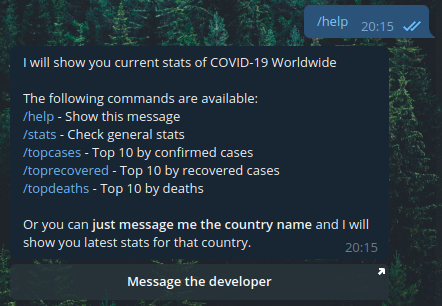
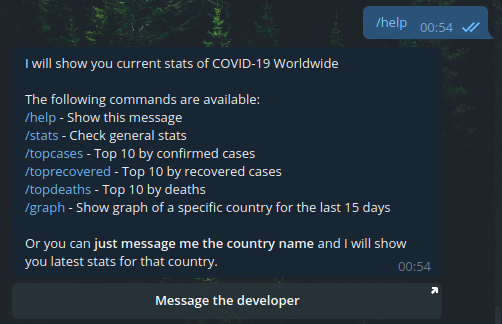
Updated Readme

diff --git a/README.md b/README.md
@@ -12,7 +12,7 @@ In case you see any translation errors, please reach the developer (check comman
 ![](images/moldova.png)
 #### You can just type first few letters of the country
 ![](images/portugal.png)
-#### In case you want to check all available commands or just to send a "thank you" to the developer
+#### In case you want to check all available commands and features or just to send a "thank you" to the developer
 ![](images/help.png)
 
 ## Data
